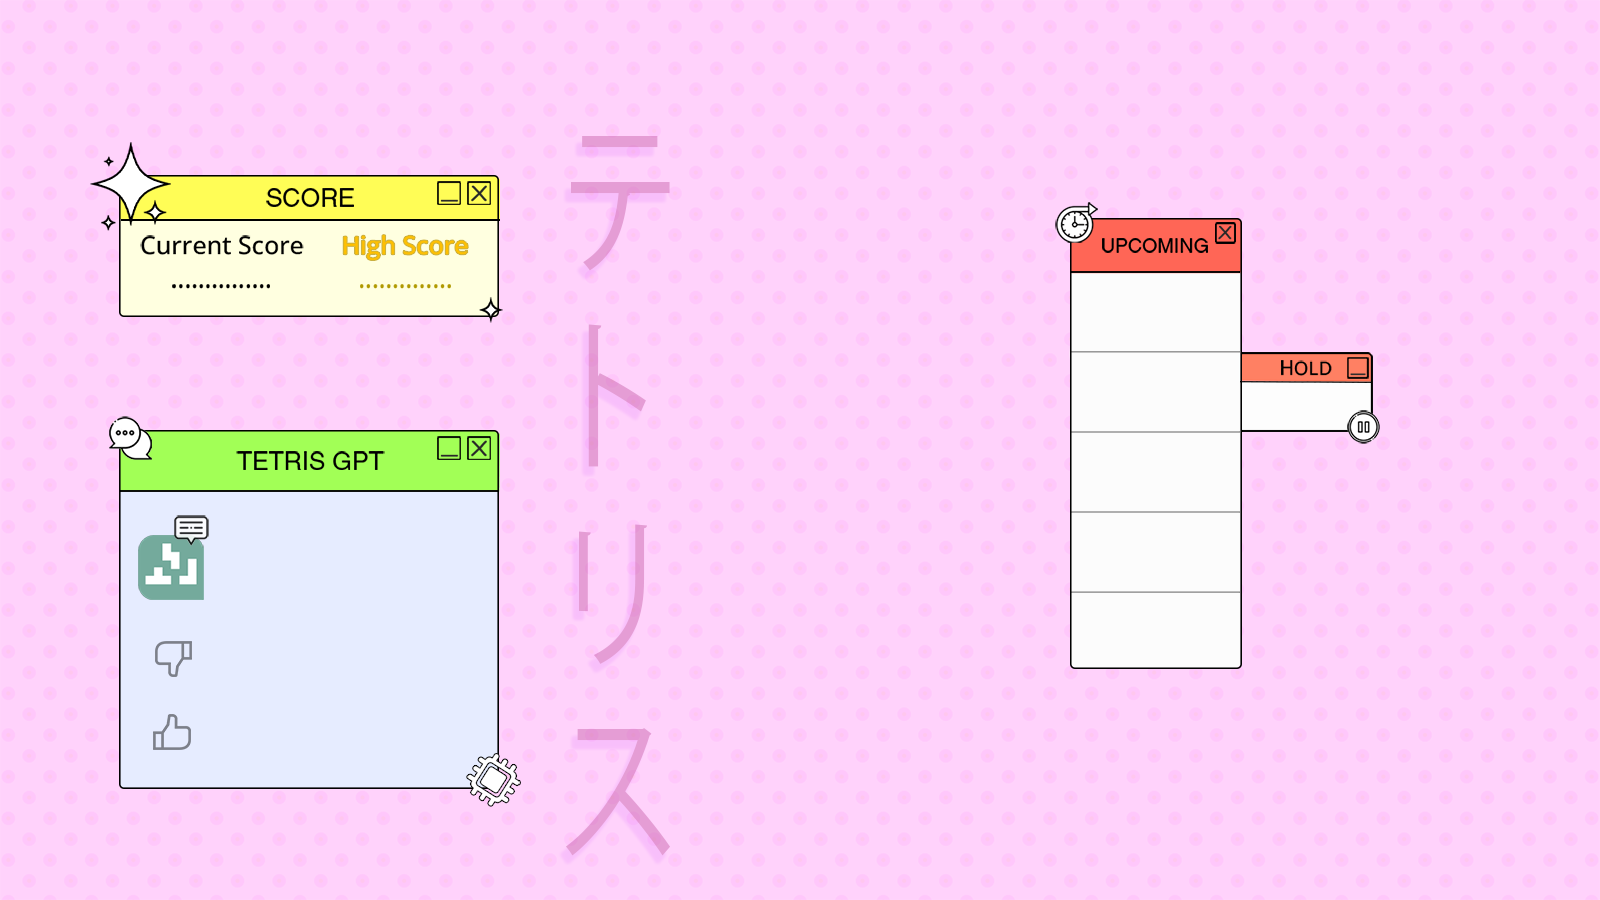
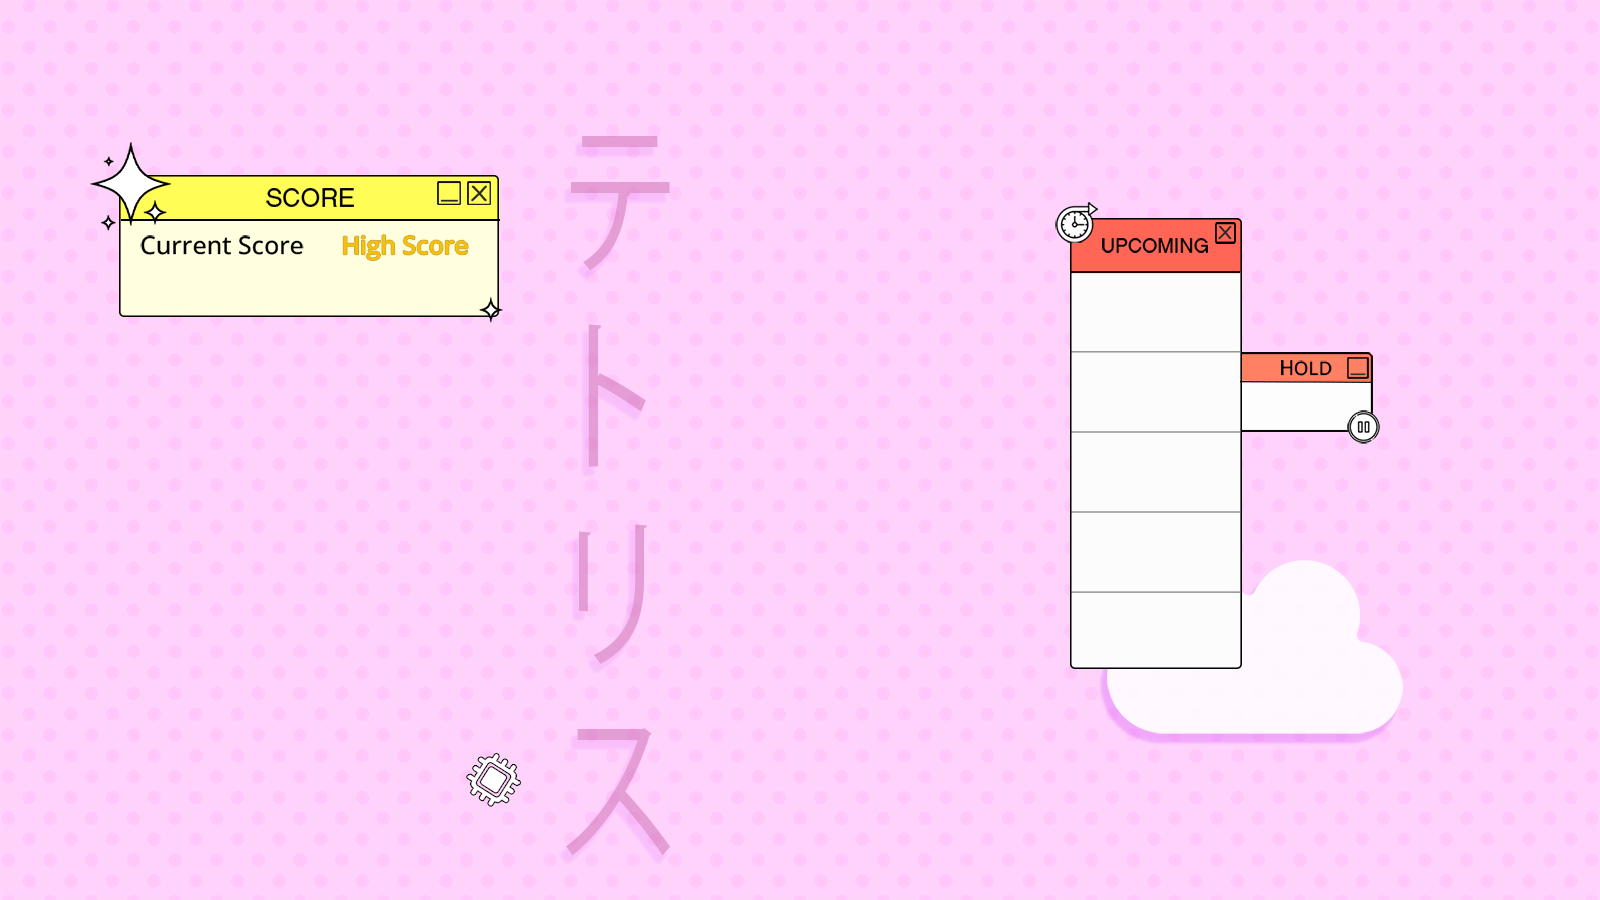
Alot done

Changed region(s): [[0.0625, 0.4667, 0.3125, 0.9022], [0.6875, 0.6222, 0.875, 0.84]]

diff --git a/tetris.py b/tetris.py
@@ -20,6 +20,7 @@ class TetrisApp:
         self.active = True
         self.master = master
         self.bestMove = None
+        self.aiMode = False
 
         for widget in master.winfo_children():
             widget.destroy()
@@ -77,13 +78,22 @@ class TetrisApp:
 
         self.cell_size = 38.5  # pixels
         self.canvas_grid = [[None for _ in range(self.field.cols)] for _ in range(self.field.rows)]
-        self.next_tetrominoes = [self.random_tetromino() for _ in range(4)]
+        self.next_tetrominoes = [self.random_tetromino() for _ in range(5)]
         self.left_moved = False
 
         self.current_tetromino = self.random_tetromino()
         self.current_row = 0
         self.current_col = (self.field.cols // 2) - 2
         self.current_rotation = 0
+
+        self.score_label = tk.Label(self.master, text=f"{self.score}", font=('Helvetica', 20, 'bold'), bg='#FFFEE5')
+        self.score_label.place(x=200, y=265)
+        self.update_score()
+
+        self.high_score_label = tk.Label(self.master, text=f"{self.high_score}", font=('Helvetica', 20, 'bold'), bg='#FFFEE5')
+        self.high_score_label.place(x=400, y=265)
+
+        self.next_pieces_canvases = []
 
         self.last_keypress_time = 0  # Time of last directional key press
         self.key_held_down = None  # None, 'Left', or 'Right'
@@ -109,6 +119,7 @@ class TetrisApp:
         self.master.bind('<Right>', self.move_right)
 
         self.master.bind('p', self.toggle_playing)
+        self.master.bind('g', self.toggle_ai)
 
         self.master.bind('<KeyRelease-a>', self.reset_key_held_down)
         self.master.bind('<KeyRelease-Left>', self.reset_key_held_down)
@@ -119,6 +130,13 @@ class TetrisApp:
         self.master.focus_set()
 
         self.activate()
+
+    def toggle_ai(self, master):
+        self.aiMode = True
+
+    def update_score(self):
+        self.score_label.config(text=f"{self.score}")
+        self.master.after(1000, self.update_score)  # Update score every 1000 ms (1 second)
 
     def toggle_playing(self, master):
         if self.active:
@@ -228,21 +246,44 @@ class TetrisApp:
             self.canvas.itemconfig(button_canvas, image=tk_image)
 
     def draw_next_piece(self):
-        # Clear the old next pieces from the canvas
-        self.tetrisCanvas.delete("next_piece")
+        # Clear all previous piece canvases
+        for canvas in getattr(self, 'next_pieces_canvases', []):
+            canvas.destroy()
+
+        self.next_pieces_canvases = []  # Reset the list holding the canvases
+
+        base_y_offset = 292  # Initial Y offset
 
         for index, tetromino in enumerate(self.next_tetrominoes):
             shape = Tetromino(tetromino).value["shape"][0]
-            offset = Tetromino(tetromino).value["offset"]
+            color = Tetromino(tetromino).value["color"]
+            canvas_width = len(shape[0]) * (self.cell_size / 2)
+            canvas_height = len(shape) * (self.cell_size / 2)
+
+            # Calculate the position of the new canvas
+            canvas_x = 1125  # X position is constant
+            canvas_y = base_y_offset + (index * (3 * self.cell_size / 2))
+
+            # Create a new canvas for this tetromino
+            next_piece_canvas = tk.Canvas(self.master, width=canvas_width, height=canvas_height, bd=0,
+                                          highlightthickness=0, relief='flat', bg='white')
+            next_piece_canvas.place(x=canvas_x, y=canvas_y)
+
+            # Draw the tetromino in its canvas
             for dx, row in enumerate(shape):
                 for dy, cell in enumerate(row):
                     if cell:
-                        x1 = offset[0] + 510 + dy * self.cell_size / 2
-                        y1 = offset[1] + (40 + (index * 3 * self.cell_size / 2)) + dx * self.cell_size / 2
+                        x1 = dy * self.cell_size / 2
+                        y1 = dx * self.cell_size / 2
                         x2 = x1 + self.cell_size / 2
                         y2 = y1 + self.cell_size / 2
-                        self.tetrisCanvas.create_rectangle(x1, y1, x2, y2, fill=tetromino.value["color"],
-                                                           tags="next_piece")
+                        next_piece_canvas.create_rectangle(x1, y1, x2, y2, fill=color, outline='')
+
+            # Add the canvas to the list
+            self.next_pieces_canvases.append(next_piece_canvas)
+
+            # Update the base Y offset for the next canvas
+            base_y_offset = base_y_offset + 23  # Increment for the next canvas
 
     def store_image(self, tk_image):
         # Store the Tkinter image reference to prevent garbage collection
@@ -278,47 +319,42 @@ class TetrisApp:
         return self.shuffled_bag.pop()
 
     def update_grid(self):
+        # Update the grid with the current state of the board
         for i in range(self.field.rows):
             for j in range(self.field.cols):
-                color = "white"
-                if self.field.board[i][j] != 0:
-                    tetromino_type = self.field.board[i][j]
-                    color = Tetromino(tetromino_type).value["color"]
-
+                tetromino_type = self.field.board[i][j]
+                color = "white" if tetromino_type == 0 else Tetromino(tetromino_type).value["color"]
                 self.tetrisCanvas.itemconfig(self.canvas_grid[i][j], fill=color)
 
-        shape = Tetromino(self.current_tetromino).value["shape"][self.current_rotation]
+        # Function to overlay a tetromino shape on the grid
+        def overlay_shape(shape, row, col, color):
+            for dx, shape_row in enumerate(shape):
+                for dy, is_filled in enumerate(shape_row):
+                    if is_filled:
+                        self.tetrisCanvas.itemconfig(
+                            self.canvas_grid[row + dx][col + dy], fill=color)
 
-        # Calculate the ghost (or shadow) tetromino
+        # Get the shape for the current rotation of the tetromino
+        current_shape = Tetromino(self.current_tetromino).value["shape"][self.current_rotation]
+
+        # If there is a best move, calculate and overlay the best move indicator
+        if self.bestMove:
+            best_row, best_col, best_rotation = 0, self.bestMove[1], self.bestMove[0]
+            while not self.field.check_collision(self.current_tetromino, best_rotation, best_row + 1, best_col):
+                best_row += 1
+            best_shape = Tetromino(self.current_tetromino).value["shape"][best_rotation]
+            overlay_shape(best_shape, best_row, best_col, "black")
+
+        # Calculate and overlay the ghost tetromino
         ghost_row = self.current_row
         while not self.field.check_collision(self.current_tetromino, self.current_rotation, ghost_row + 1,
                                              self.current_col):
             ghost_row += 1
+        overlay_shape(current_shape, ghost_row, self.current_col, "gray")
 
-        # Overlay the ghost tetromino
-        for dx, row in enumerate(shape):
-            for dy, cell in enumerate(row):
-                if cell:
-                    self.tetrisCanvas.itemconfig(self.canvas_grid[ghost_row + dx][self.current_col + dy], fill="gray")
-
-        if self.bestMove:
-            best_row = self.current_row
-            while not self.field.check_collision(self.current_tetromino, self.bestMove[0], best_row + 1,
-                                                 self.bestMove[1]):
-                best_row += 1
-
-            shape = Tetromino(self.current_tetromino).value["shape"][self.bestMove[0]]
-            for dx, row in enumerate(shape):
-                for dy, cell in enumerate(row):
-                    if cell:
-                        self.tetrisCanvas.itemconfig(self.canvas_grid[best_row + dx][self.bestMove[1] + dy],
-                                                     fill="black")
-
-        # Overlay the current tetromino
-        for dx, row in enumerate(shape):
-            for dy, cell in enumerate(row):
-                if cell:
-                    self.tetrisCanvas.itemconfig(self.canvas_grid[self.current_row + dx][self.current_col + dy], fill=self.current_tetromino.value["color"])
+        # Overlay the current tetromino in its actual position
+        overlay_shape(current_shape, self.current_row, self.current_col,
+                      Tetromino(self.current_tetromino).value["color"])
 
     def deactivate(self):
         self.active = False
@@ -357,6 +393,7 @@ class TetrisApp:
     def update_high_score(self, score):
         if score > self.high_score:
             self.high_score = score
+            self.high_score_label.config(text=f"{self.high_score}")
             self.save_options_to_file()
 
     def game_loop(self):
@@ -364,12 +401,18 @@ class TetrisApp:
             return
 
         current_time = time.time()
+        # fall_due = current_time - self.last_fall_time > 10 / 1000.0
         fall_due = current_time - self.last_fall_time > self.drop_time / 1000.0
         shift_due = current_time - self.last_shift_time > self.das_time / 1000.0
 
         if fall_due:
             if not self.field.check_collision(self.current_tetromino, self.current_rotation, self.current_row + 1, self.current_col):
                 self.current_row += 1
+
+                if self.aiMode:
+                    self.current_col = self.bestMove[1]
+                    self.current_rotation = self.bestMove[0]
+                    self.hard_drop()
             else:
                 self.field.place_tetromino(self.current_tetromino, self.current_rotation, self.current_col)
                 cachedTetromino = self.current_tetromino
@@ -384,6 +427,8 @@ class TetrisApp:
                 if self.current_row == 0:
                     self.clear_api_field()
                     self.field = Field()
+                    self.bestMove = None
+                    self.score = 0
                     self.update_high_score(self.score)
                 else:
                     self.make_api_move(cachedTetromino, self.current_rotation, self.current_col)
@@ -511,6 +556,8 @@ class TetrisApp:
         if self.current_row == 0:
             self.clear_api_field()
             self.field = Field()
+            self.bestMove = None
+            self.score = 0
             self.update_high_score(self.score)
         else:
             self.make_api_move(cachedTetromino, self.current_rotation, self.current_col)
